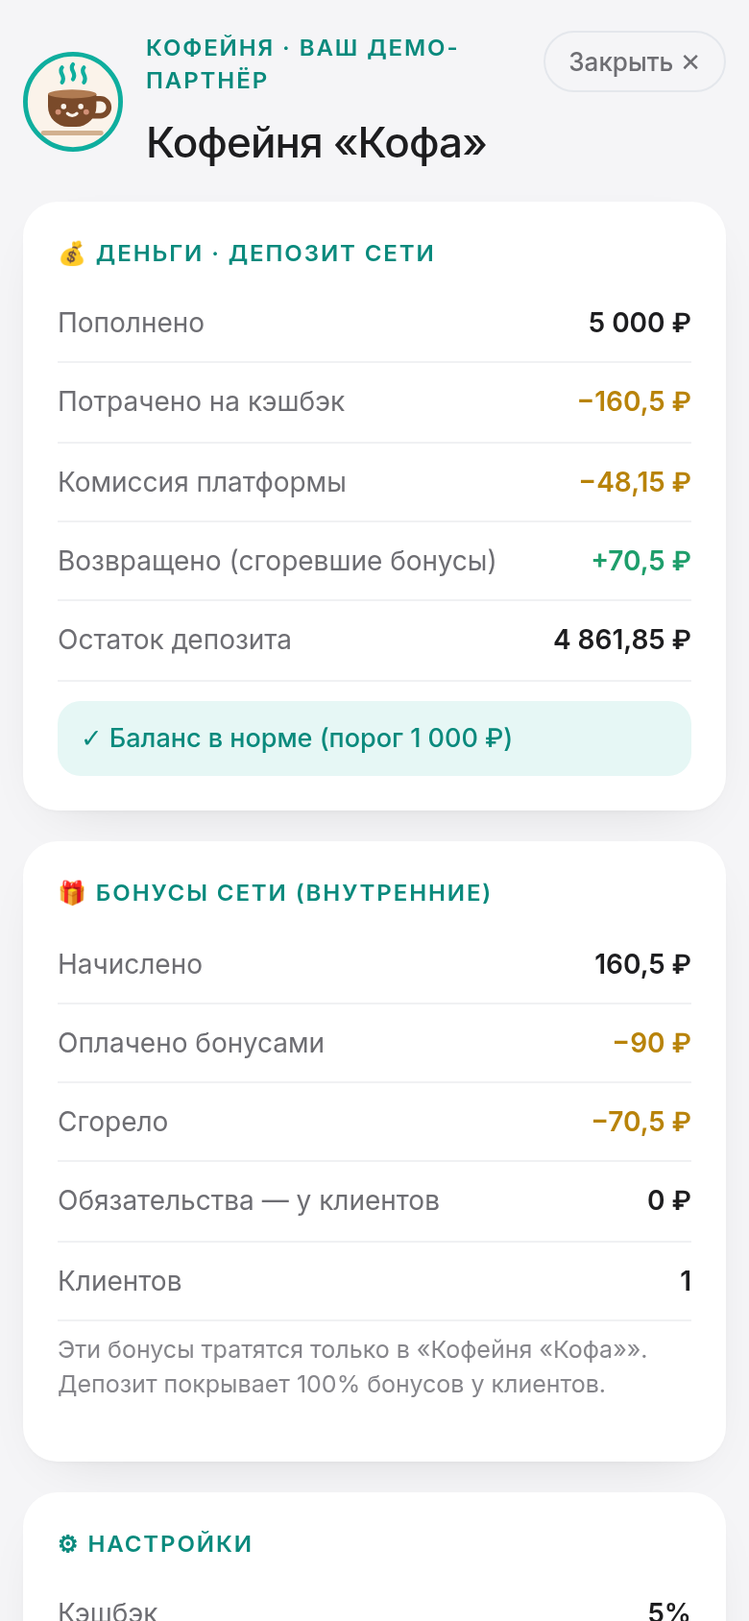
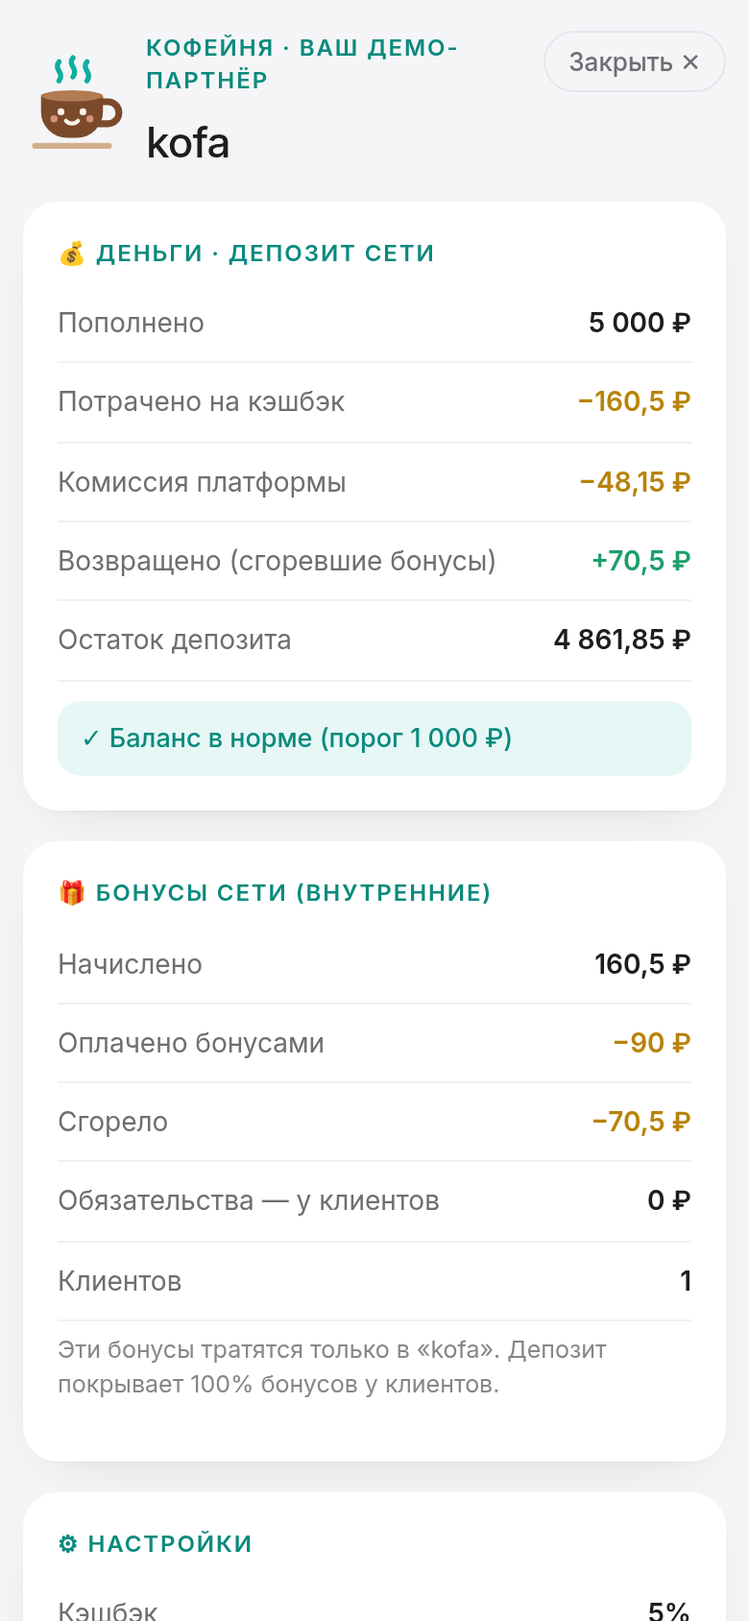
Демо: лендинг kofa в стиле приложения (вкладки, карточки, акции, комбо, SVG-иллюстрации), плоский логотип

diff --git a/demo/index.html b/demo/index.html
@@ -164,8 +164,37 @@ td.n,th.n{text-align:right}
 .toast.show{opacity:1;transform:translateX(-50%)}
 .vnote{position:fixed;right:12px;bottom:calc(12px + env(safe-area-inset-bottom));z-index:40;font-size:11.5px;color:var(--grey);background:rgba(255,255,255,.9);border:1px solid var(--border);border-radius:980px;padding:5px 10px;backdrop-filter:blur(8px)}
 .next{margin-top:18px}
+.browser{overflow:clip;min-width:0}.stage>div{min-width:0}
+.land.app{background:#F2F4F7;color:#1B2430;--stk:58px;padding-bottom:4px}
+.ahead{display:flex;align-items:center;gap:10px;padding:16px 16px 4px}
+.ahead .loc{min-width:0}.ahead .loc b{display:block;font-weight:500;font-size:15px;white-space:nowrap;overflow:hidden;text-overflow:ellipsis}.ahead .loc small{display:block;color:#8A94A6;font-size:12.5px;margin-top:1px}
+.hbtns{margin-left:auto;display:flex;gap:8px;flex-shrink:0}
+.rb{width:44px;height:44px;border-radius:50%;background:rgba(255,255,255,.55);border:1px solid rgba(27,36,48,.12);backdrop-filter:blur(10px);-webkit-backdrop-filter:blur(10px);display:flex;align-items:center;justify-content:center;cursor:pointer;padding:0}
+.rb:active{transform:scale(.95)}
+.atabs{position:sticky;top:var(--stk);z-index:6;background:rgba(242,244,247,.9);backdrop-filter:saturate(180%) blur(16px);-webkit-backdrop-filter:saturate(180%) blur(16px);padding:10px 0 8px}
+.t1,.t2,.row-s{display:flex;overflow-x:auto;scrollbar-width:none;-webkit-overflow-scrolling:touch}.t1::-webkit-scrollbar,.t2::-webkit-scrollbar,.row-s::-webkit-scrollbar{display:none}
+.t1{gap:20px;padding:0 16px}.t2{gap:16px;padding:6px 16px 0}
+.t1 button,.t2 button{background:none;border:none;padding:4px 0;white-space:nowrap;cursor:pointer;font-family:inherit;color:#A3ABB8;transition:color .2s}
+.t1 button{font-size:21px;font-weight:400;letter-spacing:-.015em}.t2 button{font-size:13.5px;min-height:30px}
+.t1 button.on,.t2 button.on{color:#1B2430}
+.asec{scroll-margin-top:140px}.asec h3{font-weight:400;font-size:21px;letter-spacing:-.015em;margin:20px 16px 12px;color:#1B2430}
+.row-s{gap:10px;padding:0 16px 6px;scroll-snap-type:x proximity;scroll-padding:0 16px}
+.pc{flex:0 0 128px;scroll-snap-align:start;background:#fff;border:none;border-radius:22px;padding:12px;text-align:left;display:flex;flex-direction:column;min-height:200px;cursor:pointer;font-family:inherit;color:#1B2430;box-shadow:0 1px 2px rgba(16,24,40,.03);transition:transform .15s}
+.pc:active{transform:scale(.97)}
+.pc .pic{width:100%;height:96px;display:block}
+.pc .nm{font-size:13.5px;line-height:1.3;margin-top:8px;display:-webkit-box;-webkit-line-clamp:2;-webkit-box-orient:vertical;overflow:hidden;min-height:35px}
+.pc .pr{margin-top:auto;padding-top:10px;display:flex;justify-content:space-between;align-items:center;font-size:14px}
+.pc.combo .duo{display:flex;align-items:flex-end;justify-content:center;height:96px}.pc.combo .duo .pic{width:56px;height:70px}.pc.combo .duo .pic+.pic{width:62px;height:62px;margin-left:-8px}
+.promo{flex:0 0 250px;height:150px;scroll-snap-align:start;border-radius:22px;padding:16px;position:relative;overflow:hidden;color:#fff;text-align:left;border:none;cursor:pointer;font-family:inherit}
+.promo b{position:relative;z-index:1;display:block;max-width:62%;font-weight:500;font-size:16px;line-height:1.25;letter-spacing:-.01em}
+.promo .pbtn{position:absolute;z-index:1;left:14px;bottom:14px;background:rgba(255,255,255,.24);backdrop-filter:blur(6px);-webkit-backdrop-filter:blur(6px);border-radius:980px;padding:7px 12px;font-size:12.5px;font-weight:500}
+.promo svg{position:absolute;right:-8px;bottom:-4px;width:128px;height:128px}
+.promo.pr1{background:linear-gradient(140deg,#0FAE9E,#0A8A7D 70%)}.promo.pr2{background:linear-gradient(140deg,#E9954B,#B9561E)}.promo.pr3{background:linear-gradient(140deg,#F7F1E8,#EAD9C2);color:#3b2a1d}.promo.pr3 .pbtn{background:rgba(59,42,29,.1)}
+.land.app .visit{padding:0 16px 16px}.land.app .map{min-height:120px}.land.app .vinfo{font-size:13px;gap:5px}
+.land.app .foot{border-top:1px solid #E4E7EC;color:#8A94A6;padding:12px 16px}
+@media (max-width:820px){.land.app{--stk:118px}.asec{scroll-margin-top:200px}}
 .ava{flex-shrink:0;display:block}.lbrand,.hlogo,.nett{display:inline-flex;align-items:center;gap:8px}.hlogo{gap:12px}.nett .ava{border-radius:50%}
-.land .hero .hero-ava{margin-bottom:10px;filter:drop-shadow(0 8px 14px rgba(122,74,42,.25))}
+.ava.flat{filter:none}.land .hero .hero-ava{margin-bottom:10px;filter:drop-shadow(0 8px 14px rgba(122,74,42,.25))}
 .visit{display:grid;grid-template-columns:1fr 1fr;gap:12px;padding:0 20px 20px}
 .map{position:relative;min-height:140px;border-radius:16px;overflow:hidden;background:#EAE6DF}
 .map .rd{position:absolute;background:#fff}.map .h1{left:0;right:0;top:38%;height:12px}.map .h2{left:0;right:0;top:75%;height:7px}.map .v1{top:0;bottom:0;left:30%;width:9px}.map .v2{top:0;bottom:0;left:72%;width:14px;transform:skewX(-12deg)}
@@ -188,7 +217,7 @@ tr.me td{background:var(--tint)}tr.tot td{font-weight:600;border-top:1.5px solid
 .bal .s{font-weight:600}
 
 .stage.s5{grid-template-columns:300px minmax(0,1fr)}.stage.s6{grid-template-columns:320px minmax(0,1fr)}
-@media (max-width:980px){.stage.s5,.stage.s6{grid-template-columns:1fr}.kpis{grid-template-columns:repeat(2,1fr)}.stage{grid-template-columns:1fr}}
+@media (max-width:980px){.stage.s5,.stage.s6{grid-template-columns:minmax(0,1fr)}.kpis{grid-template-columns:repeat(2,1fr)}.stage{grid-template-columns:minmax(0,1fr)}}
 @media (max-width:820px){
  .layout{grid-template-columns:1fr;gap:14px;padding:12px 12px 90px}
  .steps{position:sticky;top:57px;z-index:20;flex-direction:row;overflow-x:auto;gap:6px;padding:8px 0;margin:0 -12px;padding-left:12px;padding-right:12px;background:var(--bg);scrollbar-width:none}
@@ -223,12 +252,12 @@ var KEY='verniom_demo_v2',DAY=864e5,LOW=1000;
 var STEPS=[[1,'Регистрация'],[2,'Пополнение'],[3,'Сайт'],[4,'Покупка'],[5,'ЛК клиента'],[6,'Терминал'],[7,'Кабинет партнёра']];
 var ADDR='ул. Братиславская, 14, Москва',HOURS='Ежедневно 8:00–22:00';
 var OTHER={name:'Автомойка «Блеск»',bal:120,exp:'15.12.2026'};
-function coffee(n){n=String(n||'').trim();if(!n)return 'Кофейня «Кофа»';return /кофейн|кафе|cafe|coffee|кофе(?![а-яё])/i.test(n)?n:'Кофейня '+qn(n);}
-function logo(sz,cls){sz=sz||40;return '<svg class="ava'+(cls?' '+cls:'')+'" width="'+sz+'" height="'+sz+'" viewBox="0 0 64 64" aria-hidden="true"><circle cx="32" cy="32" r="30.5" fill="#FBF3EA" stroke="#0FAE9E" stroke-width="3"/><path d="M25 10c-3 3.5 3 5.5 0 9.5M32 8c-3 3.5 3 5.5 0 9.5M39 10c-3 3.5 3 5.5 0 9.5" stroke="#0FAE9E" stroke-width="2.6" fill="none" stroke-linecap="round"/><path d="M47 30h2.5a5.5 5.5 0 0 1 0 11H45" stroke="#7A4A2A" stroke-width="3.4" fill="none" stroke-linecap="round"/><path d="M16 27h31v8a13 13 0 0 1-13 13h-5a13 13 0 0 1-13-13z" fill="#7A4A2A"/><ellipse cx="31.5" cy="27" rx="15.5" ry="2.8" fill="#B07B52"/><circle cx="26" cy="35" r="1.7" fill="#FBF3EA"/><circle cx="37" cy="35" r="1.7" fill="#FBF3EA"/><path d="M28.5 39.5c1.6 1.8 4.4 1.8 6 0" stroke="#FBF3EA" stroke-width="2" fill="none" stroke-linecap="round"/><circle cx="22.5" cy="38.5" r="1.8" fill="#E9A38B" opacity=".8"/><circle cx="40.5" cy="38.5" r="1.8" fill="#E9A38B" opacity=".8"/><path d="M13 52h37" stroke="#D2B08F" stroke-width="3" stroke-linecap="round"/></svg>';}
+function coffee(n){n=String(n||'').trim()||'kofa';return /кофейн|кафе|cafe|coffee|кофе(?![а-яё])/i.test(n)?n:'кофейня '+n;}
+function logo(sz,cls){sz=sz||40;return '<svg class="ava'+(cls?' '+cls:'')+'" width="'+sz+'" height="'+sz+'" viewBox="9 5 46 50" aria-hidden="true"><path d="M25 10c-3 3.5 3 5.5 0 9.5M32 8c-3 3.5 3 5.5 0 9.5M39 10c-3 3.5 3 5.5 0 9.5" stroke="#0FAE9E" stroke-width="2.6" fill="none" stroke-linecap="round"/><path d="M47 30h2.5a5.5 5.5 0 0 1 0 11H45" stroke="#7A4A2A" stroke-width="3.4" fill="none" stroke-linecap="round"/><path d="M16 27h31v8a13 13 0 0 1-13 13h-5a13 13 0 0 1-13-13z" fill="#7A4A2A"/><ellipse cx="31.5" cy="27" rx="15.5" ry="2.8" fill="#B07B52"/><circle cx="26" cy="35" r="1.7" fill="#FBF3EA"/><circle cx="37" cy="35" r="1.7" fill="#FBF3EA"/><path d="M28.5 39.5c1.6 1.8 4.4 1.8 6 0" stroke="#FBF3EA" stroke-width="2" fill="none" stroke-linecap="round"/><circle cx="22.5" cy="38.5" r="1.8" fill="#E9A38B" opacity=".8"/><circle cx="40.5" cy="38.5" r="1.8" fill="#E9A38B" opacity=".8"/><path d="M13 52h37" stroke="#D2B08F" stroke-width="3" stroke-linecap="round"/></svg>';}
 function initAva(n,sz,bg){sz=sz||40;var ch=String(n).replace(/^[^«]*«/,'').charAt(0).toUpperCase();return '<svg class="ava" width="'+sz+'" height="'+sz+'" viewBox="0 0 64 64" aria-hidden="true"><circle cx="32" cy="32" r="31" fill="'+(bg||'#E6F7F5')+'"/><text x="32" y="41" text-anchor="middle" font-family="Inter,sans-serif" font-size="26" font-weight="600" fill="#0A8A7D">'+ch+'</text></svg>';}
 function qn(n){n=String(n);return /[«"]/.test(n)?n:'«'+n+'»';}
 
-var MENU=[['☕','Капучино',290],['🥛','Латте',320],['☕','Флэт уайт',340],['🥐','Круассан',250],['🍰','Чизкейк',380],['🎁','Сертификат',3000]];
+var MENU=[['cup','Капучино',225],['latte','Латте медовый',275],['iced','Айс латте',295],['raf','Раф ванильный',285],['flat','Флэт уайт',245],['pumpkin','Тыквенный латте',325],['raf2','Раф пряный',315],['cookie','Печенье с шоколадом',145],['cheesecake','Чизкейк',280],['croissant','Круассан',190],['combo','Двойной комбо',375],['combo','Тройной комбо',585],['combo','Парный комбо',650],['gift','Сертификат',3000]];
 function blank(){return {partner:null,site:null,clients:{},tx:[],last:null,step:1,sms:[],off:0};}
 var S;
 try{S=JSON.parse(localStorage.getItem(KEY))||blank();}catch(e){S=blank();}
@@ -294,7 +323,7 @@ function v1(){
   var p=S.partner;
   return head('Шаг 1','Регистрация партнёра','Подключите любой бизнес за минуту. В демо — кофейня: название можно поменять.')+
   '<div class="card"><form id="f1" autocomplete="off">'+
-  '<label class="f"><span>Название бизнеса</span><input class="i" name="name" required maxlength="40" value="'+esc(p?p.name:'Кофейня «Кофа»')+'"></label>'+
+  '<label class="f"><span>Название бизнеса</span><input class="i" name="name" required maxlength="40" value="'+esc(p?p.name:'kofa')+'"></label>'+
   '<label class="f"><span>Телефон</span><input class="i" name="phone" type="tel" inputmode="tel" required value="'+esc(p?fmtPhone(p.phone):'+7 (900) 123-45-67')+'"></label>'+
   '<div class="grid2"><label class="f"><span>Кэшбэк клиентам, %</span><input class="i" name="cb" type="number" inputmode="decimal" min="1" max="30" step="0.5" value="'+(p?p.cb:5)+'"></label>'+
   '<label class="f"><span>Комиссия платформы, %</span><input class="i" name="comm" type="number" inputmode="decimal" min="0" max="20" step="0.1" placeholder="1" value="'+(p?p.comm:1)+'"><div class="hint">Значение для примера — можно изменить</div></label></div>'+
@@ -306,7 +335,7 @@ function b1(){
     if(ph.length!==11){toast('Введите телефон в формате +7…');return;}
     var cb=parseFloat(String(f.cb.value).replace(',','.'));if(!(cb>=1&&cb<=30)){toast('Кэшбэк: от 1 до 30%');return;}
     var cm=f.comm.value===''?1:parseFloat(String(f.comm.value).replace(',','.'));if(!(cm>=0&&cm<=20)){toast('Комиссия: от 0 до 20%');return;}
-    var name=f.name.value.trim()||'Кофейня «Кофа»';
+    var name=f.name.value.trim()||'kofa';
     if(S.partner){S.partner.name=name;S.partner.phone=ph;S.partner.cb=cb;S.partner.comm=cm;}
     else S.partner={name:name,phone:ph,cb:cb,comm:cm,balance:0,maxShare:30,expDays:30,created:vnow()};
     S.partner.slug=slug(name);save();toast('Кабинет партнёра создан');go(2);};
@@ -361,13 +390,47 @@ function b3(){
 /* ---------- STEP 4 ---------- */
 function landing(){
   var p=S.partner,cn=coffee(p.name);
-  return '<div class="browser"><div class="bbar"><i></i><i></i><i></i><div class="url">🔒 '+esc(siteUrl())+'</div></div><div class="land">'+
-  '<div class="nav"><span class="lbrand">'+logo(34)+esc(cn)+'</span><small>📍 '+ADDR+'</small></div>'+
-  '<div class="hero">'+logo(64,'hero-ava')+'<h2>'+esc(cn)+'</h2><p>Кофе, который хочется повторить. Свежая обжарка и выпечка каждый день.</p><div class="cbk"><span class="dot"></span>Кэшбэк '+p.cb+'% с каждой покупки</div></div>'+
-  '<div class="menu">'+MENU.map(function(m,i){return '<div class="mi"><div class="em">'+m[0]+'</div><b>'+m[1]+'</b><span class="pr">'+fmt(m[2])+'</span><button data-buy="'+i+'">Купить</button></div>';}).join('')+'</div>'+
-  '<div class="visit"><div class="map" aria-hidden="true"><i class="rd h1"></i><i class="rd h2"></i><i class="rd v1"></i><i class="rd v2"></i><span class="pin"><i>☕</i></span><span class="mlbl">Братиславская</span></div>'+
-  '<div class="vinfo"><b>Как нас найти</b><div>📍 '+ADDR+'</div><div>🚇 м. Братиславская, 3 мин пешком</div><div>🕗 '+HOURS+'</div><div>☎ '+esc(fmtPhone(p.phone))+'</div></div></div>'+
-  '<div class="foot"><span>© '+esc(cn)+' · '+ADDR+'</span><span>Кэшбэк — ВЕРНЁМ</span></div></div></div>';
+  var pcard=function(i,pre){var m=MENU[i];return '<button class="pc" data-buy="'+i+'" aria-label="'+esc(m[1])+', '+fmt(m[2])+'">'+pic(m[0])+'<span class="nm">'+esc(m[1])+'</span><span class="pr"><span>'+(pre||'')+fmt(m[2])+'</span>'+CHEV+'</span></button>';};
+  var row=function(ids){return '<div class="row-s">'+ids.map(function(i){return pcard(i);}).join('')+'</div>';};
+  var combo=function(i,a,b){var m=MENU[i];return '<button class="pc combo" data-buy="'+i+'"><span class="duo">'+pic(a)+pic(b)+'</span><span class="nm">'+esc(m[1])+'</span><span class="pr"><span>от '+fmt(m[2])+'</span>'+CHEV+'</span></button>';};
+  return '<div class="browser"><div class="bbar"><i></i><i></i><i></i><div class="url">🔒 '+esc(siteUrl())+'</div></div><div class="land app">'+
+  '<div class="ahead">'+logo(38,'flat')+'<div class="loc"><b>ул. Братиславская, 14</b><small>до 22:00 · '+esc(cn)+'</small></div>'+
+   '<div class="hbtns"><button class="rb" data-t="spark" aria-label="Подборка для тебя">'+SPARK+'</button><button class="rb" data-t="prof" aria-label="Личный кабинет и бонусы">'+PERSON+'</button></div></div>'+
+  '<div class="atabs"><div class="t1">'+[['pop','для тебя'],['autumn','осень 🧡'],['coffee','кофе'],['dess','десерты']].map(function(t,i){return '<button data-sec="'+t[0]+'"'+(i===0?' class="on"':'')+'>'+t[1]+'</button>';}).join('')+'</div>'+
+   '<div class="t2">'+[['pop','популярные напитки'],['promo','акции'],['combo','комбо'],['visit','кофейня']].map(function(t,i){return '<button data-sec2="'+t[0]+'"'+(i===0?' class="on"':'')+'>'+t[1]+'</button>';}).join('')+'</div></div>'+
+  '<section class="asec" id="sec-pop"><h3>популярные напитки</h3>'+row([0,1,2,3,4])+'</section>'+
+  '<section class="asec" id="sec-promo"><h3>акции</h3><div class="row-s">'+
+   '<button class="promo pr1" data-t="howcb"><b>кэшбэк '+p.cb+'% бонусами ВЕРНЁМ</b><span class="pbtn">как это работает</span>'+COINS+'</button>'+
+   '<button class="promo pr2" data-sec="autumn"><b>пряный сезон</b><span class="pbtn">к напиткам</span>'+pic('pumpkin')+'</button>'+
+   '<button class="promo pr3" data-buy="13"><b>сертификат на 3 000 ₽</b><span class="pbtn">подарить</span>'+pic('gift')+'</button></div></section>'+
+  '<section class="asec" id="sec-autumn"><h3>осень</h3>'+row([5,6,2])+'</section>'+
+  '<section class="asec" id="sec-coffee"><h3>кофе</h3>'+row([0,4,1,3,2])+'</section>'+
+  '<section class="asec" id="sec-dess"><h3>десерты</h3>'+row([7,8,9])+'</section>'+
+  '<section class="asec" id="sec-combo"><h3>комбо</h3><div class="row-s">'+combo(10,'cup','croissant')+combo(11,'flat','cookie')+combo(12,'latte','cheesecake')+'</div></section>'+
+  '<section class="asec" id="sec-visit"><h3>кофейня</h3><div class="visit"><div class="map" aria-hidden="true"><i class="rd h1"></i><i class="rd h2"></i><i class="rd v1"></i><i class="rd v2"></i><span class="pin"><i>☕</i></span><span class="mlbl">Братиславская</span></div>'+
+   '<div class="vinfo"><div>📍 '+ADDR+'</div><div>🚇 м. Братиславская, 3 мин</div><div>🕗 '+HOURS+'</div><div>☎ '+esc(fmtPhone(p.phone))+'</div></div></div></section>'+
+  '<div class="foot"><span>© '+esc(cn)+' · '+ADDR+'</span><span>кэшбэк — ВЕРНЁМ</span></div></div></div>';
+}
+var CHEV='<svg class="chev" width="8" height="13" viewBox="0 0 8 13" aria-hidden="true"><path d="M1.5 1.5l5 5-5 5" stroke="#B8BFCA" stroke-width="1.8" fill="none" stroke-linecap="round" stroke-linejoin="round"/></svg>';
+var PERSON='<svg width="24" height="24" viewBox="0 0 24 24" aria-hidden="true" fill="none" stroke="#1B2430" stroke-width="1.5" stroke-linecap="round"><circle cx="13" cy="8.5" r="3.6"/><path d="M8.2 19.5c.9-3.1 2.8-4.7 4.8-4.7s3.9 1.6 4.8 4.7"/><circle cx="6.2" cy="16.8" r="4" fill="#F2F4F7"/><path d="M6.2 14.9v3.8M4.3 16.8h3.8"/></svg>';
+var SPARK='<svg width="22" height="22" viewBox="0 0 24 24" aria-hidden="true" fill="none" stroke="#1B2430" stroke-width="1.4" stroke-linejoin="round"><path d="M11 3.5c.6 3.9 2.6 5.9 6.5 6.5-3.9.6-5.9 2.6-6.5 6.5-.6-3.9-2.6-5.9-6.5-6.5 3.9-.6 5.9-2.6 6.5-6.5z"/><path d="M18 14.5c.3 1.8 1.2 2.7 3 3-1.8.3-2.7 1.2-3 3-.3-1.8-1.2-2.7-3-3 1.8-.3 2.7-1.2 3-3z"/></svg>';
+var COINS='<svg viewBox="0 0 100 100" aria-hidden="true"><circle cx="58" cy="62" r="24" fill="#FFD98A"/><circle cx="58" cy="62" r="18" fill="none" stroke="#E8B24E" stroke-width="3"/><text x="58" y="70" text-anchor="middle" font-size="22" font-weight="600" fill="#B9802A" font-family="Inter,sans-serif">₽</text><circle cx="78" cy="34" r="14" fill="#FFE7B3"/><text x="78" y="39" text-anchor="middle" font-size="13" font-weight="600" fill="#B9802A" font-family="Inter,sans-serif">%</text></svg>';
+var GL='<path d="M37 26l2.5 56" stroke="#fff" stroke-opacity=".5" stroke-width="3" stroke-linecap="round"/>';
+var GLASS='M30 18h40l-4.5 72q-15.5 4-31 0z';
+function grad(id,stops){return '<defs><linearGradient id="'+id+'" x1="0" y1="0" x2="0" y2="1">'+stops.map(function(s){return '<stop offset="'+s[0]+'" stop-color="'+s[1]+'"/>';}).join('')+'</linearGradient></defs>';}
+function pic(k){
+  var sh='<ellipse cx="50" cy="93" rx="24" ry="3.5" fill="#1B2430" opacity=".07"/>',b='';
+  if(k==='cup'||k==='flat'){var crema=k==='flat'?'#9A6238':'#C69467';
+    b=grad('g'+k,[[0,'#EFE4D6'],[1,'#D3C1AC']])+'<path d="M22 36h56l-4.5 44q-1 9-10 9H36.5q-9 0-10-9z" fill="url(#g'+k+')"/><ellipse cx="50" cy="36" rx="28" ry="7.5" fill="#E7D9C8"/><ellipse cx="50" cy="36" rx="24" ry="5.6" fill="'+crema+'"/><path d="M50 40c-5-3-7-5-5-7 1.5-1.5 3.5-.6 5 1 1.5-1.6 3.5-2.5 5-1 2 2 0 4-5 7z" fill="#F6ECDF"/><path d="M28 44l2.5 34" stroke="#fff" stroke-opacity=".45" stroke-width="3" stroke-linecap="round"/>';}
+  else if(k==='latte')b=grad('glat',[[0,'#F6EEE3'],[.22,'#F1E4D2'],[.55,'#DDBF99'],[1,'#B07B52']])+'<path d="'+GLASS+'" fill="url(#glat)"/><ellipse cx="50" cy="18" rx="20" ry="4" fill="#F9F2E9"/><ellipse cx="50" cy="18" rx="16" ry="2.6" fill="#E9C9A0"/>'+GL;
+  else if(k==='iced')b=grad('gice',[[0,'#F4F6F8'],[.35,'#E9DCCB'],[.62,'#B98656'],[1,'#7A4A2A']])+'<path d="'+GLASS+'" fill="url(#gice)"/><rect x="38" y="26" width="12" height="11" rx="3" fill="#fff" opacity=".75" transform="rotate(-12 44 31)"/><rect x="52" y="32" width="11" height="10" rx="3" fill="#fff" opacity=".7" transform="rotate(10 57 37)"/><path d="M58 6l-4 50" stroke="#0FAE9E" stroke-width="3.2" stroke-linecap="round"/><ellipse cx="50" cy="18" rx="20" ry="4" fill="#fff" opacity=".7"/>'+GL;
+  else if(k==='raf'||k==='raf2')b=grad('g'+k,k==='raf'?[[0,'#FBF4EA'],[.5,'#F1E1CB'],[1,'#E0C29C']]:[[0,'#F8EBDA'],[.5,'#EBC9A0'],[1,'#C98A4B']])+'<path d="'+GLASS+'" fill="url(#g'+k+')"/><ellipse cx="50" cy="18" rx="20" ry="4" fill="#FBF4EA"/><path d="M34 18c4 4 8-3 12 1s8-3 12 1 6-2 8-1" stroke="#C98A4B" stroke-width="2.4" fill="none" stroke-linecap="round"/>'+(k==='raf2'?'<circle cx="44" cy="15" r="1.3" fill="#8B4E22"/><circle cx="55" cy="16" r="1.3" fill="#8B4E22"/>':'')+GL;
+  else if(k==='pumpkin')b=grad('gpum',[[0,'#F7D9B5'],[.45,'#EDA866'],[1,'#C9682A']])+'<path d="'+GLASS+'" fill="url(#gpum)"/><circle cx="40" cy="15" r="8" fill="#fff"/><circle cx="50" cy="11" r="9.5" fill="#fff"/><circle cx="60" cy="15" r="8" fill="#fff"/><circle cx="50" cy="18" r="10" fill="#FFFDF9"/><circle cx="46" cy="10" r="1.2" fill="#B5652B"/><circle cx="53" cy="14" r="1.2" fill="#B5652B"/><circle cx="58" cy="11" r="1.2" fill="#B5652B"/>'+GL;
+  else if(k==='cookie')b='<circle cx="50" cy="58" r="30" fill="#D9A066"/><circle cx="50" cy="58" r="30" fill="none" stroke="#C48848" stroke-width="3"/><path d="M30 50q20-14 40 0" stroke="#E7B77E" stroke-width="3" fill="none" opacity=".7" stroke-linecap="round"/>'+[[40,48],[58,46],[48,62],[64,62],[36,66],[54,74]].map(function(q){return '<circle cx="'+q[0]+'" cy="'+q[1]+'" r="3.6" fill="#5A321A"/>';}).join('');
+  else if(k==='cheesecake')b='<path d="M16 58l58-22 10 10v30H16z" fill="#F4E2BF"/><path d="M16 58h68v18H16z" fill="#F9EDD3"/><path d="M16 76h68v8H16z" fill="#C98A4B"/><path d="M16 58l58-22 10 10-68 12z" fill="#FBF3E2"/><circle cx="62" cy="44" r="5" fill="#D9534F"/><circle cx="70" cy="46" r="4" fill="#C2413D"/><path d="M60 38q2-4 6-3" stroke="#3E8E5E" stroke-width="2" fill="none" stroke-linecap="round"/>';
+  else if(k==='croissant')b='<path d="M14 66q8-30 36-32 28 2 36 32-8 6-16 2-4-18-20-19-16 1-20 19-8 4-16-2z" fill="#D9984E"/><path d="M33 47q4 10 3 21M50 36v22M67 47q-4 10-3 21" stroke="#B5732E" stroke-width="2.4" fill="none" stroke-linecap="round"/><path d="M24 50q10-12 26-14" stroke="#EDBE7E" stroke-width="2.5" fill="none" stroke-linecap="round"/>';
+  else if(k==='gift')b='<rect x="22" y="42" width="56" height="44" rx="7" fill="#0FAE9E"/><rect x="18" y="32" width="64" height="14" rx="5" fill="#13C2B0"/><rect x="45" y="32" width="10" height="54" fill="#FBF3EA"/><path d="M50 32c-6-10-18-12-18-4 0 5 10 4 18 4zm0 0c6-10 18-12 18-4 0 5-10 4-18 4z" fill="none" stroke="#FBF3EA" stroke-width="3.5" stroke-linejoin="round"/>';
+  return '<svg class="pic" viewBox="0 0 100 100" aria-hidden="true">'+sh+b+'</svg>';
 }
 function phoneLock(list,id){
   var d=new Date(vnow());
@@ -414,8 +477,16 @@ function buyModal(i){
 }
 function b4(){
   $$('[data-buy]').forEach(function(b){b.onclick=function(){buyModal(+b.dataset.buy);};});
+  $$('[data-sec],[data-sec2]').forEach(function(b){b.onclick=function(){secGo(b.dataset.sec||b.dataset.sec2);};});
+  var pf=$('[data-t=prof]');if(pf)pf.onclick=function(){if(S.last){go(5);}else toast('Кабинет появится после первой покупки — по номеру телефона');};
+  var sp=$('[data-t=spark]');if(sp)sp.onclick=function(){secGo('promo');};
+  var hc=$('[data-t=howcb]');if(hc)hc.onclick=function(){toast('Платите как обычно — '+S.partner.cb+'% вернётся бонусами на телефон');};
   bindLk();var t=$('[data-t=to5]');if(t)t.onclick=function(){go(5);};
 }
+function stk(){var t=$('.top'),st=$('#steps');var h=t?t.getBoundingClientRect().height:0;if(window.innerWidth<=820&&st)h+=st.getBoundingClientRect().height;return h;}
+function secGo(id){var el=$('#sec-'+id);if(!el)return;var tabs=$('.atabs');var y=el.getBoundingClientRect().top+window.scrollY-stk()-(tabs?tabs.offsetHeight:0)+6;window.scrollTo({top:y,behavior:'smooth'});markTabs(id);}
+function markTabs(id){$$('[data-sec]').forEach(function(b){if(b.closest('.t1'))b.classList.toggle('on',b.dataset.sec===id);});$$('[data-sec2]').forEach(function(b){b.classList.toggle('on',b.dataset.sec2===id);});}
+window.addEventListener('scroll',function(){if(S.step!==4)return;var tabs=$('.atabs');if(!tabs)return;var lim=stk()+tabs.offsetHeight+40,cur=null;$$('.asec').forEach(function(sx){if(sx.getBoundingClientRect().top<lim)cur=sx.id.slice(4);});markTabs(cur||'pop');},{passive:true});
 function bindLk(){$$('[data-lk]').forEach(function(a){a.onclick=function(e){e.preventDefault();S.last=a.dataset.lk;save();go(5);};});}
 /* ---------- STEP 5 ---------- */
 function v5(){
@@ -424,7 +495,7 @@ function v5(){
   '<div class="stage s5"><div><div class="phone"><div class="screen"><div class="isl"></div><div class="sbar"><span>9:41</span><span>●●● ▮</span></div><div class="lk">'+
   '<div class="hd"><span class="nett">'+logo(24)+esc(p.name)+'</span><span style="font-size:12px;color:var(--grey)">'+esc(maskPhone(c.phone))+'</span></div>'+
   '<div class="nets-t">Мои бонусы по сетям</div>'+
-  '<div class="bal"><div class="t nett">'+logo(26)+esc(coffee(p.name).toUpperCase())+'</div><div class="s" data-t="cbal">'+fmt(c.balance)+'</div><p>+'+p.cb+'% с покупки · тратятся только здесь</p></div>'+
+  '<div class="bal"><div class="t nett">'+logo(26)+esc(p.name)+'</div><div class="s" data-t="cbal">'+fmt(c.balance)+'</div><p>+'+p.cb+'% с покупки · тратятся только здесь</p></div>'+
   '<div class="bal2"><div class="nett">'+initAva(OTHER.name,30)+'<div><div class="t">'+esc(OTHER.name)+'</div><small>только в этой сети · до '+OTHER.exp+'</small></div></div><b>'+fmt(OTHER.bal)+'</b></div>'+
   '<div class="lkc exp"><h4>Срок действия</h4>'+(ne?'<div class="hr"><div>Сгорят '+dstr(ne.exp)+'<small>Бонусы действуют '+p.expDays+' дн.</small></div><div class="minus">'+fmt(ne.amt)+'</div></div>':'<div class="hint">Нет бонусов со сроком · действуют '+p.expDays+' дн.</div>')+'</div>'+
   '<div class="lkc"><h4>История</h4>'+(c.hist.length?c.hist.slice(0,6).map(function(h){return '<div class="hr"><div>'+esc(h.txt)+'<small>'+h.t+' · '+fmt(h.amount)+'</small></div><div class="'+(h.d>=0?'plus':'minus')+'">'+(h.d>=0?'+':'−')+fmt(Math.abs(h.d))+'</div></div>';}).join(''):'<div class="hint">Пока пусто</div>')+'</div>'+

diff --git a/demo/admin/index.html b/demo/admin/index.html
@@ -245,7 +245,7 @@ var SEED=[
    [['79161112233',2450],['79267776655',1980],['79035554433',1720],['79857771122',1510],['79998880011',1240]],
    [['03.10, 07:10','Покупка','79161112233',6900,690,0,69],['02.10, 21:30','Терминал','79267776655',4500,450,900,36],['15.09, 10:00','Пополнение','',30000,0,0,0]])
 ];
-function logo(sz,cls){sz=sz||40;return '<svg class="ava'+(cls?' '+cls:'')+'" width="'+sz+'" height="'+sz+'" viewBox="0 0 64 64" aria-hidden="true"><circle cx="32" cy="32" r="30.5" fill="#FBF3EA" stroke="#0FAE9E" stroke-width="3"/><path d="M25 10c-3 3.5 3 5.5 0 9.5M32 8c-3 3.5 3 5.5 0 9.5M39 10c-3 3.5 3 5.5 0 9.5" stroke="#0FAE9E" stroke-width="2.6" fill="none" stroke-linecap="round"/><path d="M47 30h2.5a5.5 5.5 0 0 1 0 11H45" stroke="#7A4A2A" stroke-width="3.4" fill="none" stroke-linecap="round"/><path d="M16 27h31v8a13 13 0 0 1-13 13h-5a13 13 0 0 1-13-13z" fill="#7A4A2A"/><ellipse cx="31.5" cy="27" rx="15.5" ry="2.8" fill="#B07B52"/><circle cx="26" cy="35" r="1.7" fill="#FBF3EA"/><circle cx="37" cy="35" r="1.7" fill="#FBF3EA"/><path d="M28.5 39.5c1.6 1.8 4.4 1.8 6 0" stroke="#FBF3EA" stroke-width="2" fill="none" stroke-linecap="round"/><circle cx="22.5" cy="38.5" r="1.8" fill="#E9A38B" opacity=".8"/><circle cx="40.5" cy="38.5" r="1.8" fill="#E9A38B" opacity=".8"/><path d="M13 52h37" stroke="#D2B08F" stroke-width="3" stroke-linecap="round"/></svg>';}
+function logo(sz,cls){sz=sz||40;return '<svg class="ava'+(cls?' '+cls:'')+'" width="'+sz+'" height="'+sz+'" viewBox="9 5 46 50" aria-hidden="true"><path d="M25 10c-3 3.5 3 5.5 0 9.5M32 8c-3 3.5 3 5.5 0 9.5M39 10c-3 3.5 3 5.5 0 9.5" stroke="#0FAE9E" stroke-width="2.6" fill="none" stroke-linecap="round"/><path d="M47 30h2.5a5.5 5.5 0 0 1 0 11H45" stroke="#7A4A2A" stroke-width="3.4" fill="none" stroke-linecap="round"/><path d="M16 27h31v8a13 13 0 0 1-13 13h-5a13 13 0 0 1-13-13z" fill="#7A4A2A"/><ellipse cx="31.5" cy="27" rx="15.5" ry="2.8" fill="#B07B52"/><circle cx="26" cy="35" r="1.7" fill="#FBF3EA"/><circle cx="37" cy="35" r="1.7" fill="#FBF3EA"/><path d="M28.5 39.5c1.6 1.8 4.4 1.8 6 0" stroke="#FBF3EA" stroke-width="2" fill="none" stroke-linecap="round"/><circle cx="22.5" cy="38.5" r="1.8" fill="#E9A38B" opacity=".8"/><circle cx="40.5" cy="38.5" r="1.8" fill="#E9A38B" opacity=".8"/><path d="M13 52h37" stroke="#D2B08F" stroke-width="3" stroke-linecap="round"/></svg>';}
 function initAva(n,sz,bg){sz=sz||40;var ch=String(n).replace(/^[^«]*«/,'').charAt(0).toUpperCase();return '<svg class="ava" width="'+sz+'" height="'+sz+'" viewBox="0 0 64 64" aria-hidden="true"><circle cx="32" cy="32" r="31" fill="'+(bg||'#E6F7F5')+'"/><text x="32" y="41" text-anchor="middle" font-family="Inter,sans-serif" font-size="26" font-weight="600" fill="#0A8A7D">'+ch+'</text></svg>';}
 function qn(n){n=String(n);return /[«"]/.test(n)?n:'«'+n+'»';}
 function load(){try{return JSON.parse(localStorage.getItem(KEY))||null;}catch(e){return null;}}
